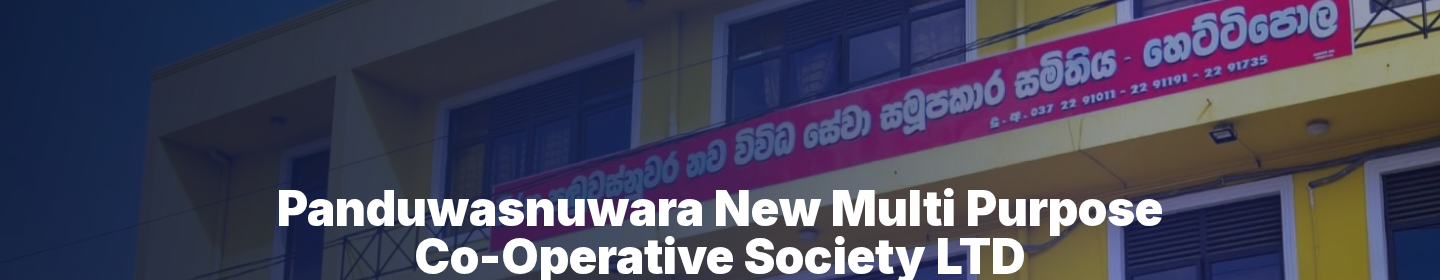
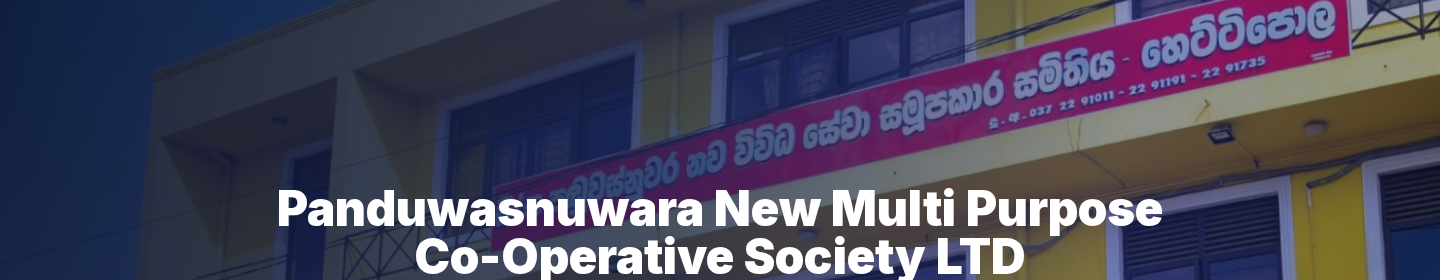
Spreadsheet read raw:true — member numbers stay text (33/02 not dates)

diff --git a/src/app/admin/data/page.tsx b/src/app/admin/data/page.tsx
@@ -104,9 +104,10 @@ function parseRows(grid: unknown[][]): ParsedRow[] {
 async function parseSpreadsheet(file: File): Promise<ParsedRow[]> {
   const XLSX = await import("xlsx");
   const buf = await file.arrayBuffer();
-  const wb = XLSX.read(buf, { type: "array" });
+  // ✅ raw: true — member numbers "33/02" වගේ text විදිහටම තියෙන්න ඕනේ (date විදිහට නොවෙන)
+  const wb = XLSX.read(buf, { type: "array", raw: true });
   const ws = wb.Sheets[wb.SheetNames[0]];
-  const grid = XLSX.utils.sheet_to_json<unknown[]>(ws, { header: 1, defval: "", raw: false });
+  const grid = XLSX.utils.sheet_to_json<unknown[]>(ws, { header: 1, defval: "", raw: true });
   return parseRows(grid as unknown[][]);
 }
 
